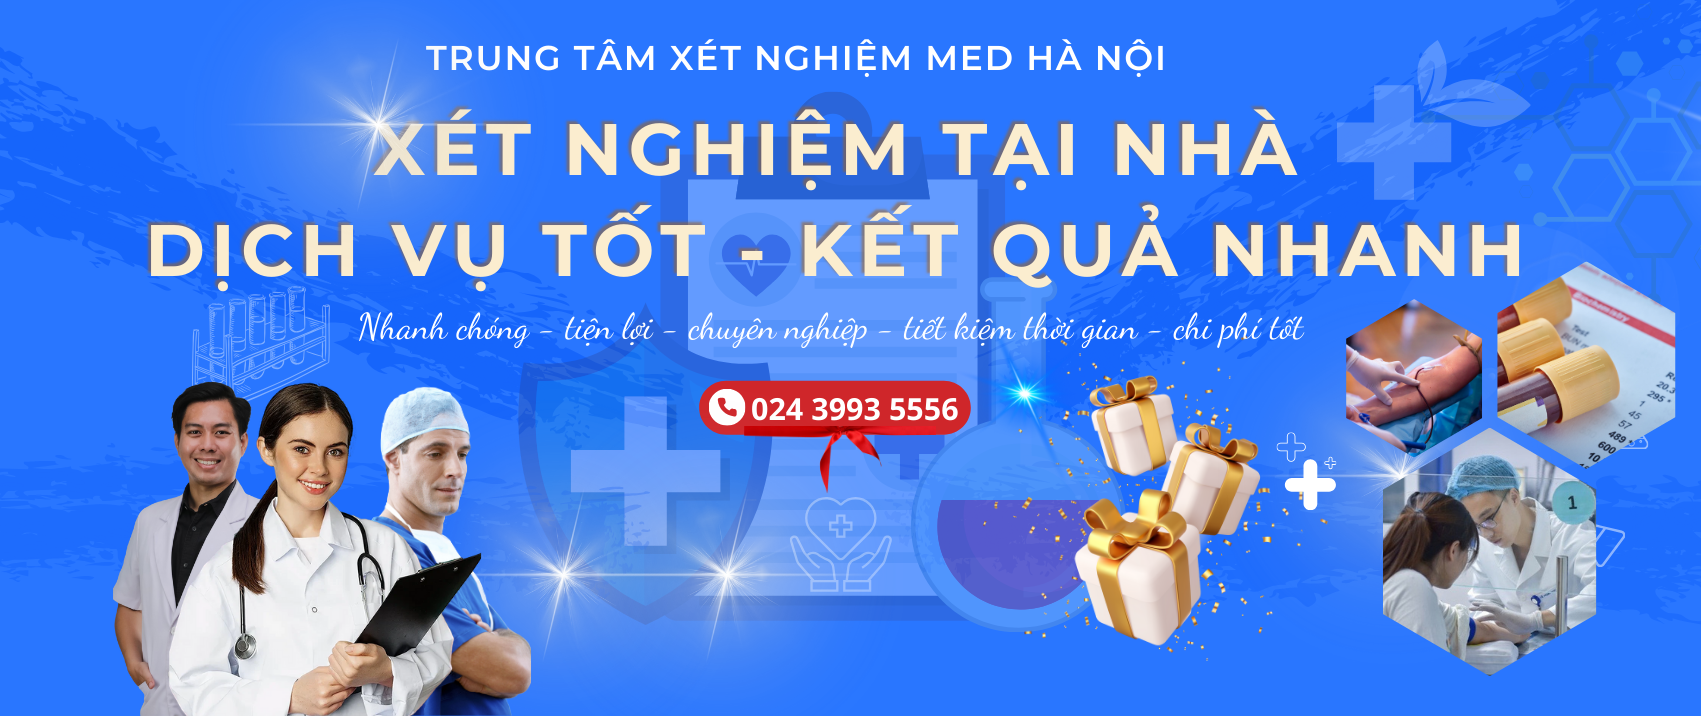
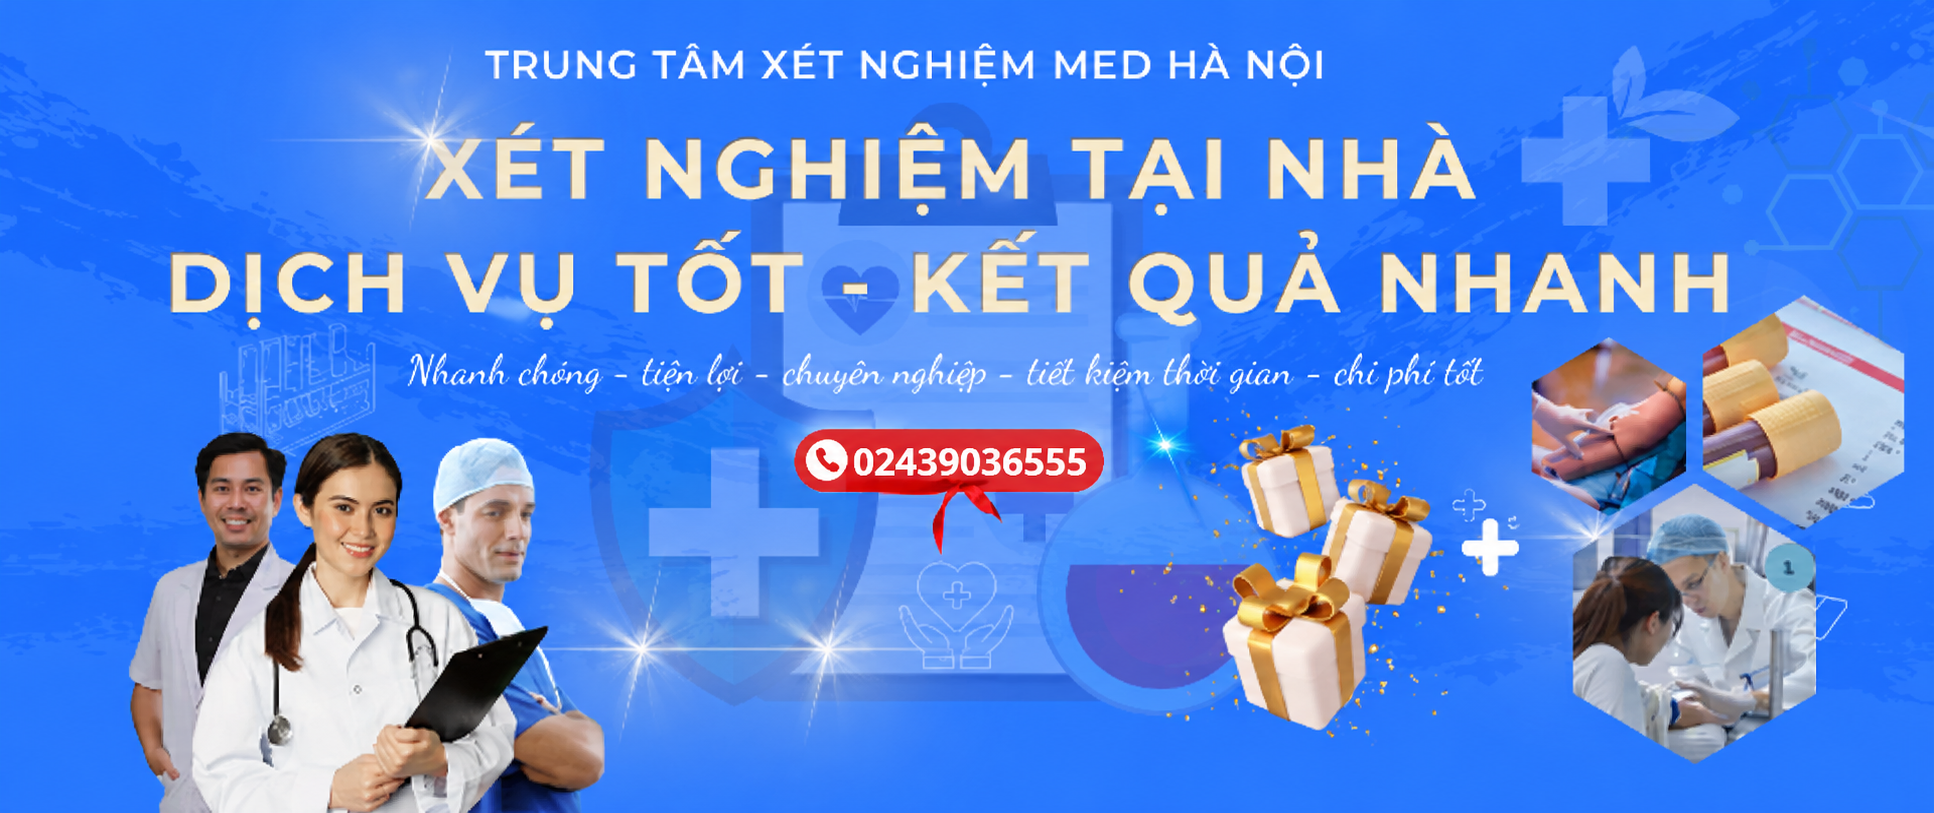
fix: sđt

diff --git a/resources/views/client/layouts/footer.blade.php b/resources/views/client/layouts/footer.blade.php
@@ -76,10 +76,10 @@
                     <h2 class="h4 pb-lg-3 text-light light-300">LIÊN HỆ</h2>
                     <ul class="list-unstyled text-light light-300">
                          <li class="pb-2">
-                            <i class='bx-fw bx bx-phone bx-xs'></i><a class="text-decoration-none text-light py-1" href="tel:02439935556">CÔNG TY TNHH DỊCH VỤ Y TẾ <br> MEDHANOI </a>
+                            <i class='bx-fw bx bx-phone bx-xs'></i><a class="text-decoration-none text-light py-1" href="tel:02439036555">CÔNG TY TNHH DỊCH VỤ Y TẾ <br> MEDHANOI </a>
                         </li>
                         <li class="pb-2">
-                            <i class='bx-fw bx bx-phone bx-xs'></i><a class="text-decoration-none text-light py-1" href="tel:02439935556">02439935556</a>
+                            <i class='bx-fw bx bx-phone bx-xs'></i><a class="text-decoration-none text-light py-1" href="tel:02439036555">02439036555</a>
                         </li>
                         <li class="pb-2">
                             <i class='bx-fw bx bx-mail-send bx-xs'></i><a class="text-decoration-none text-light py-1" href="mailto:medhanoi6555@gmail.com">medhanoi6555@gmail.com</a>

diff --git a/resources/views/client/AppointmentAtHome/homeAppointement.blade.php b/resources/views/client/AppointmentAtHome/homeAppointement.blade.php
@@ -231,7 +231,7 @@
                     <div class="row g-lg-5 mb-4" >
                         <!-- Start Recent Work -->
                         <div class="col-md-4 mb-4">
-                            <a href="tel:02439935556" class="recent-work card border-0 shadow-lg overflow-hidden">
+                            <a href="tel:02439036555" class="recent-work card border-0 shadow-lg overflow-hidden">
                                 <img class="recent-work-img card-img" style="height: 150px;object-fit: cover;" src="{{url('/clients/img/7.jpg')}}" alt="Card image">
                                 <div class="recent-work-vertical card-img-overlay d-flex align-items-end">
                                     <div style="background: #000000a1;border-radius: 5px" class="recent-work-content text-start mb-3 ml-3 text-dark">

diff --git a/resources/views/client/home/home.blade.php b/resources/views/client/home/home.blade.php
@@ -495,7 +495,7 @@
                 <div class="row g-lg-5 mb-4" >
                     <!-- Start Recent Work -->
                     <div class="col-md-4 mb-4">
-                        <a href="tel:02439935556" class="recent-work card border-0 shadow-lg overflow-hidden">
+                        <a href="tel:02439036555" class="recent-work card border-0 shadow-lg overflow-hidden">
                             <img class="recent-work-img card-img" style="height: 150px;object-fit: cover;" src="{{url('/clients/img/7.jpg')}}" alt="Card image">
                             <div class="recent-work-vertical card-img-overlay d-flex align-items-end">
                                 <div style="background: #000000a1;border-radius: 5px" class="recent-work-content text-start mb-3 ml-3 text-dark">

diff --git a/resources/views/client/layouts/chatZalo.blade.php b/resources/views/client/layouts/chatZalo.blade.php
@@ -22,7 +22,7 @@
         <input type="hidden" name="_token" id="_token" value="{{ csrf_token() }}">
         <section class="">
             <div id="chatMesss">
-                    <a href="tel:02439935556">
+                    <a href="tel:02439036555">
                         <img width="" height="50px" style="background-color: none"
                          src="../clients/img/phone.png" alt=""
                     ></a>
@@ -89,7 +89,7 @@
         window.open(url, '_blank');
     }
      function openPhone(){
-        var phone = 'tel:02439935556';
+        var phone = 'tel:02439036555';
         window.open(phone,'_blank');
     }
     function showMessage(phone){

diff --git a/resources/views/ketquaxetnghiem.blade.php b/resources/views/ketquaxetnghiem.blade.php
@@ -1,1 +1,1 @@
-<span>Chưa xác định thông tin, vui lòng liên hệ <i class='bx-fw bx bx-phone bx-xs'></i><a class="text-decoration-none text-light py-1" href="tel:02439935556">02439935556</a> để được hỗ trợ xem kết quả.</span>
+<span>Chưa xác định thông tin, vui lòng liên hệ <i class='bx-fw bx bx-phone bx-xs'></i><a class="text-decoration-none text-light py-1" href="tel:02439036555">02439036555</a> để được hỗ trợ xem kết quả.</span>

diff --git a/resources/views/client/Contact/lien-he.blade.php b/resources/views/client/Contact/lien-he.blade.php
@@ -33,7 +33,7 @@
                 <tbody>
                     <tr>
                         <td>Điện thoại</td>
-                        <td><a href="tel:02439036555">02439935556</a></td>
+                        <td><a href="tel:02439036555">02439036555</a></td>
                     </tr>
                     <tr>
                         <td>Email</td>
